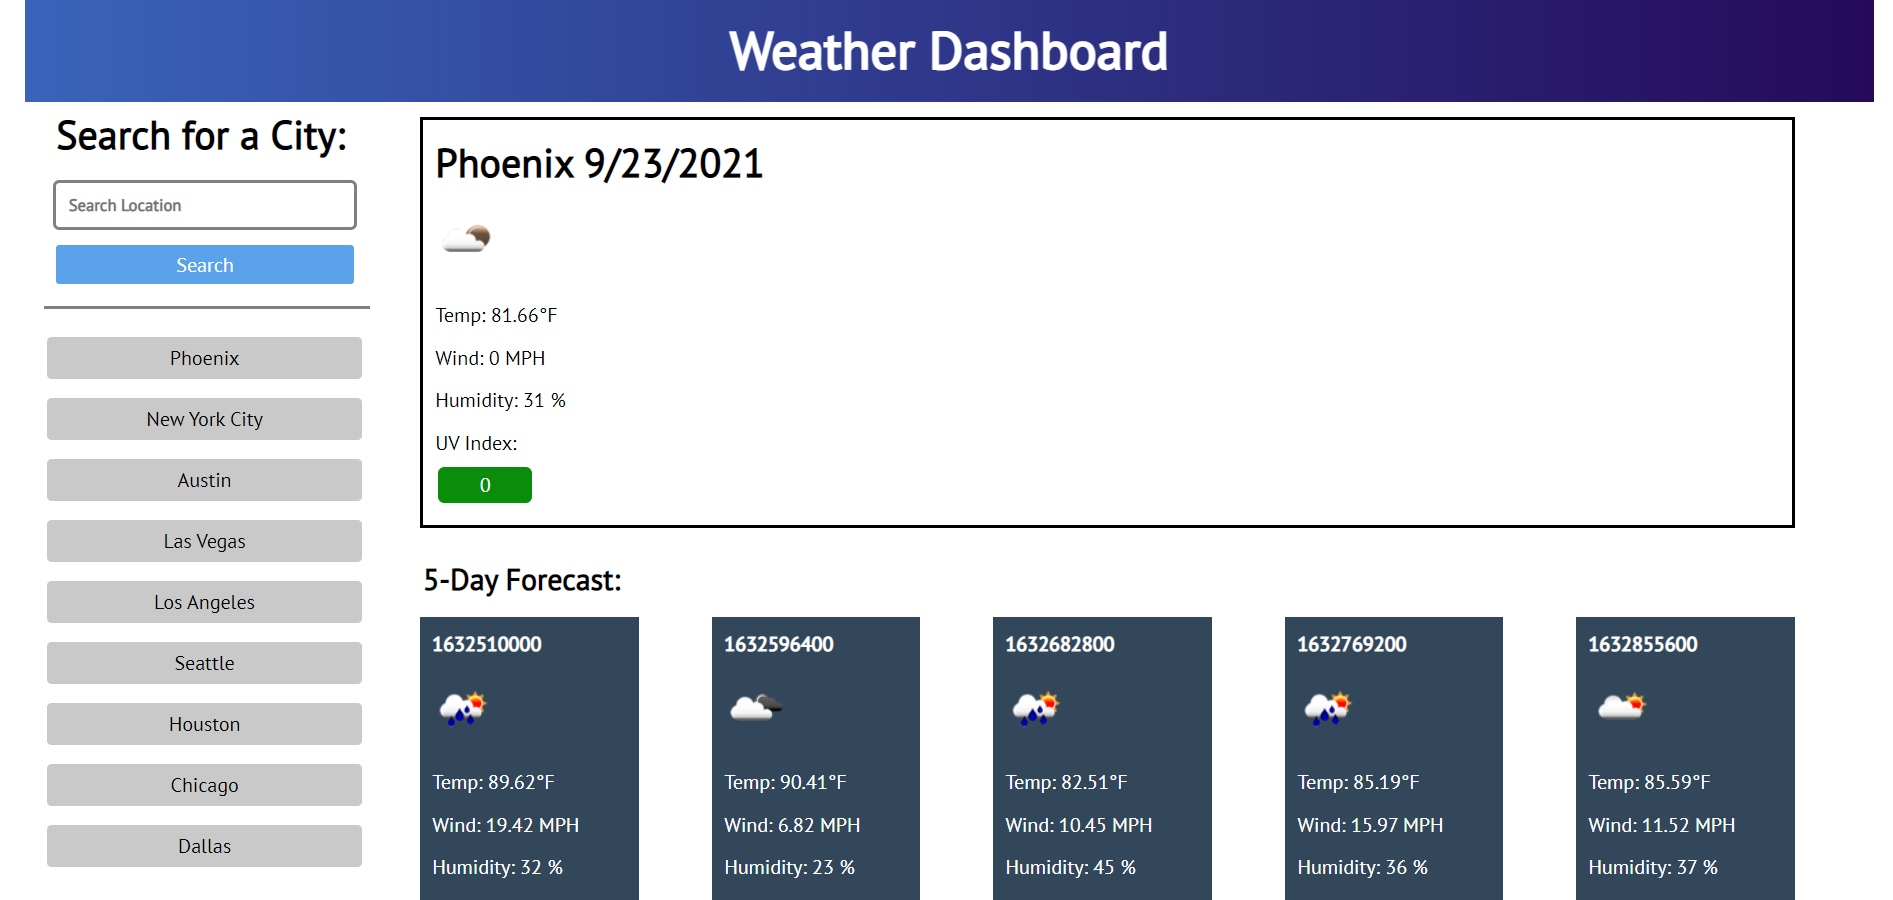
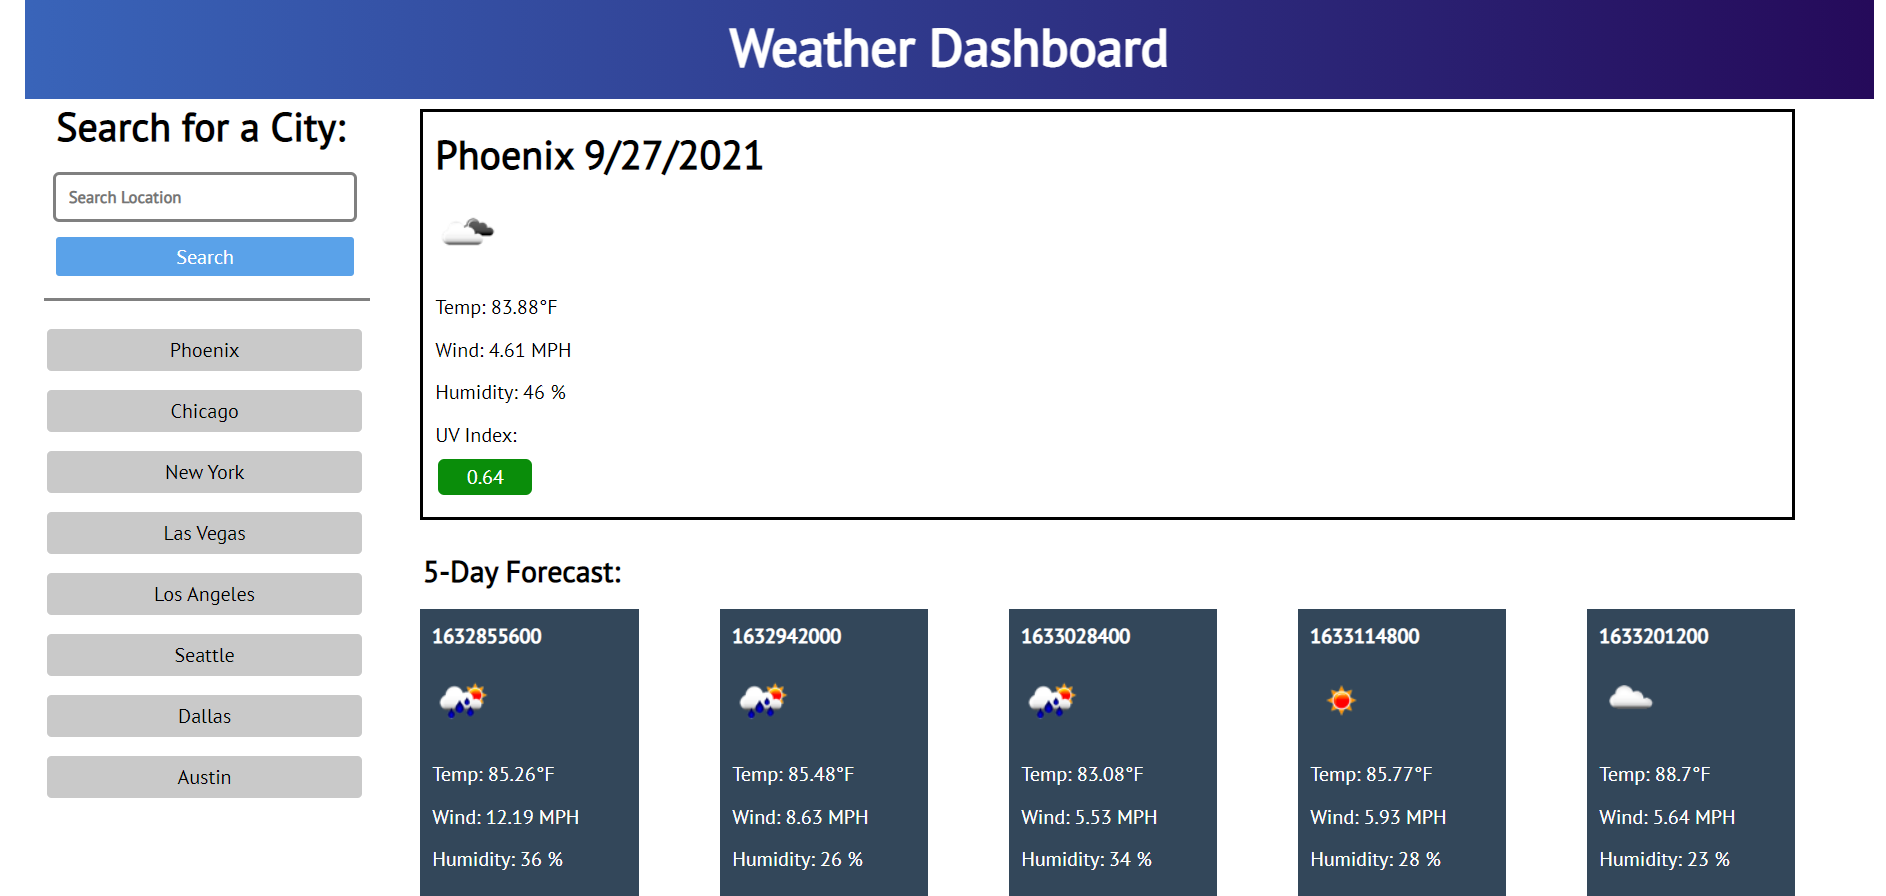
changed screenshot of weather dash and added local storage searches to appear upon loading the page

diff --git a/assets/js/script.js b/assets/js/script.js
@@ -4,7 +4,7 @@ const searches = $(".savedSearch");
 const today = new Date();
 const date = (today.getMonth()+1)+'/'+today.getDate()+'/'+today.getFullYear();
 // Empty array to store searches and undefined variables to be used later
-let history = [];
+let history = JSON.parse(localStorage.getItem("history")) || [];
 let latitude;
 let longitude;
 let iconCode;
@@ -22,16 +22,16 @@ $(document).ready(() => {
             localStorage.setItem("history", JSON.stringify(history));
             $(".main").removeClass("hide");
             $(".textbox").val("");
-            displayCity();
             getWeather(city);
+            displayCity();
         } else if (city.value===undefined) {
             alert("Cannot locate weather for this city.")
         } else {
             alert("Must enter a city first!")
         }
-        //localStorage.clear();
+        // localStorage.clear();
     });
-
+    
     // Makes the fetch call to OpenWeather Api to get the weather data
     function getWeather(city) {
         fetch(`https://api.openweathermap.org/data/2.5/weather?q=${city}&APPID=${apiKey}`)
@@ -62,22 +62,25 @@ $(document).ready(() => {
             })
         })
     };
-
+    
     // Function to dynamically create elements for each searched city and display them on the page 
     function displayCity() {
         searches.empty();
         for (let i = 0; i < history.length; i++) {
             let pEl = $("<p>").text(history[i]);
             pEl.addClass("cities");
-             //Added event listener using JQuery to the document to listen for clicks on the search history cities
-            $(document).on('click', ".cities", e => {
-                console.log($(e.text));
-                // getWeather(); nnot sure whats going on here will come back to it later
-            })
             searches.prepend(pEl);
         }
+        //Added event listener using JQuery to the document to listen for clicks on the search history cities
+        $(document).on('click', '.cities', e => {
+            e.preventDefault();
+            let city = $(this).text();
+            console.log(city);
+            // I believe my logic is correct but not sure why when I click one of the saved search history buttons it fails to grab the text value and use it to run the getWeather function or it grabs the text value of all the elements 
+            // getWeather(city);
+        });
     };
-
+    
     // Function that changes the UV color based on conditions
     function uvConditions(uvi) {
         if (uvi <= 2) {
@@ -88,25 +91,25 @@ $(document).ready(() => {
             $(".index").attr("style", "background-color: var(--Severe)");
         }
     };
-
+    
     // Function that generates the 5-Day Forecast section
     function fiveDayForecast(data) {
         for (let i=1; i < 6; i++) {
             iconCode = data.daily[i].weather[0].icon;
             let fiveDates = data.daily[i].dt;
             let forecast = ` 
-                <div class="fiveDays">
-                    <h4 class="fiveDate">${fiveDates}</h4>
-                    <img src="http://openweathermap.org/img/w/${iconCode}.png" alt="weather icon">
-                    <p class="fiveTemp">Temp: ${data.daily[i].temp.day}°F</p>
-                    <p class="fiveWind">Wind: ${data.daily[i].wind_speed} MPH</p>
-                    <p class="fiveHumid">Humidity: ${data.daily[i].humidity} %</p>
-                </div>
+            <div class="fiveDays">
+            <h4 class="fiveDate">${fiveDates}</h4>
+            <img src="http://openweathermap.org/img/w/${iconCode}.png" alt="weather icon">
+            <p class="fiveTemp">Temp: ${data.daily[i].temp.day}°F</p>
+            <p class="fiveWind">Wind: ${data.daily[i].wind_speed} MPH</p>
+            <p class="fiveHumid">Humidity: ${data.daily[i].humidity} %</p>
+            </div>
             `;
             $(".fiveCast").append(forecast);
         }
     };
+
+    // calls the display city function upon page load to display previously searched cities
+    displayCity();
 });
-// need to make local storage appear on load
-// need to make saved search cities load the weather for clicked city
-// need to stop generating new cities after 8
